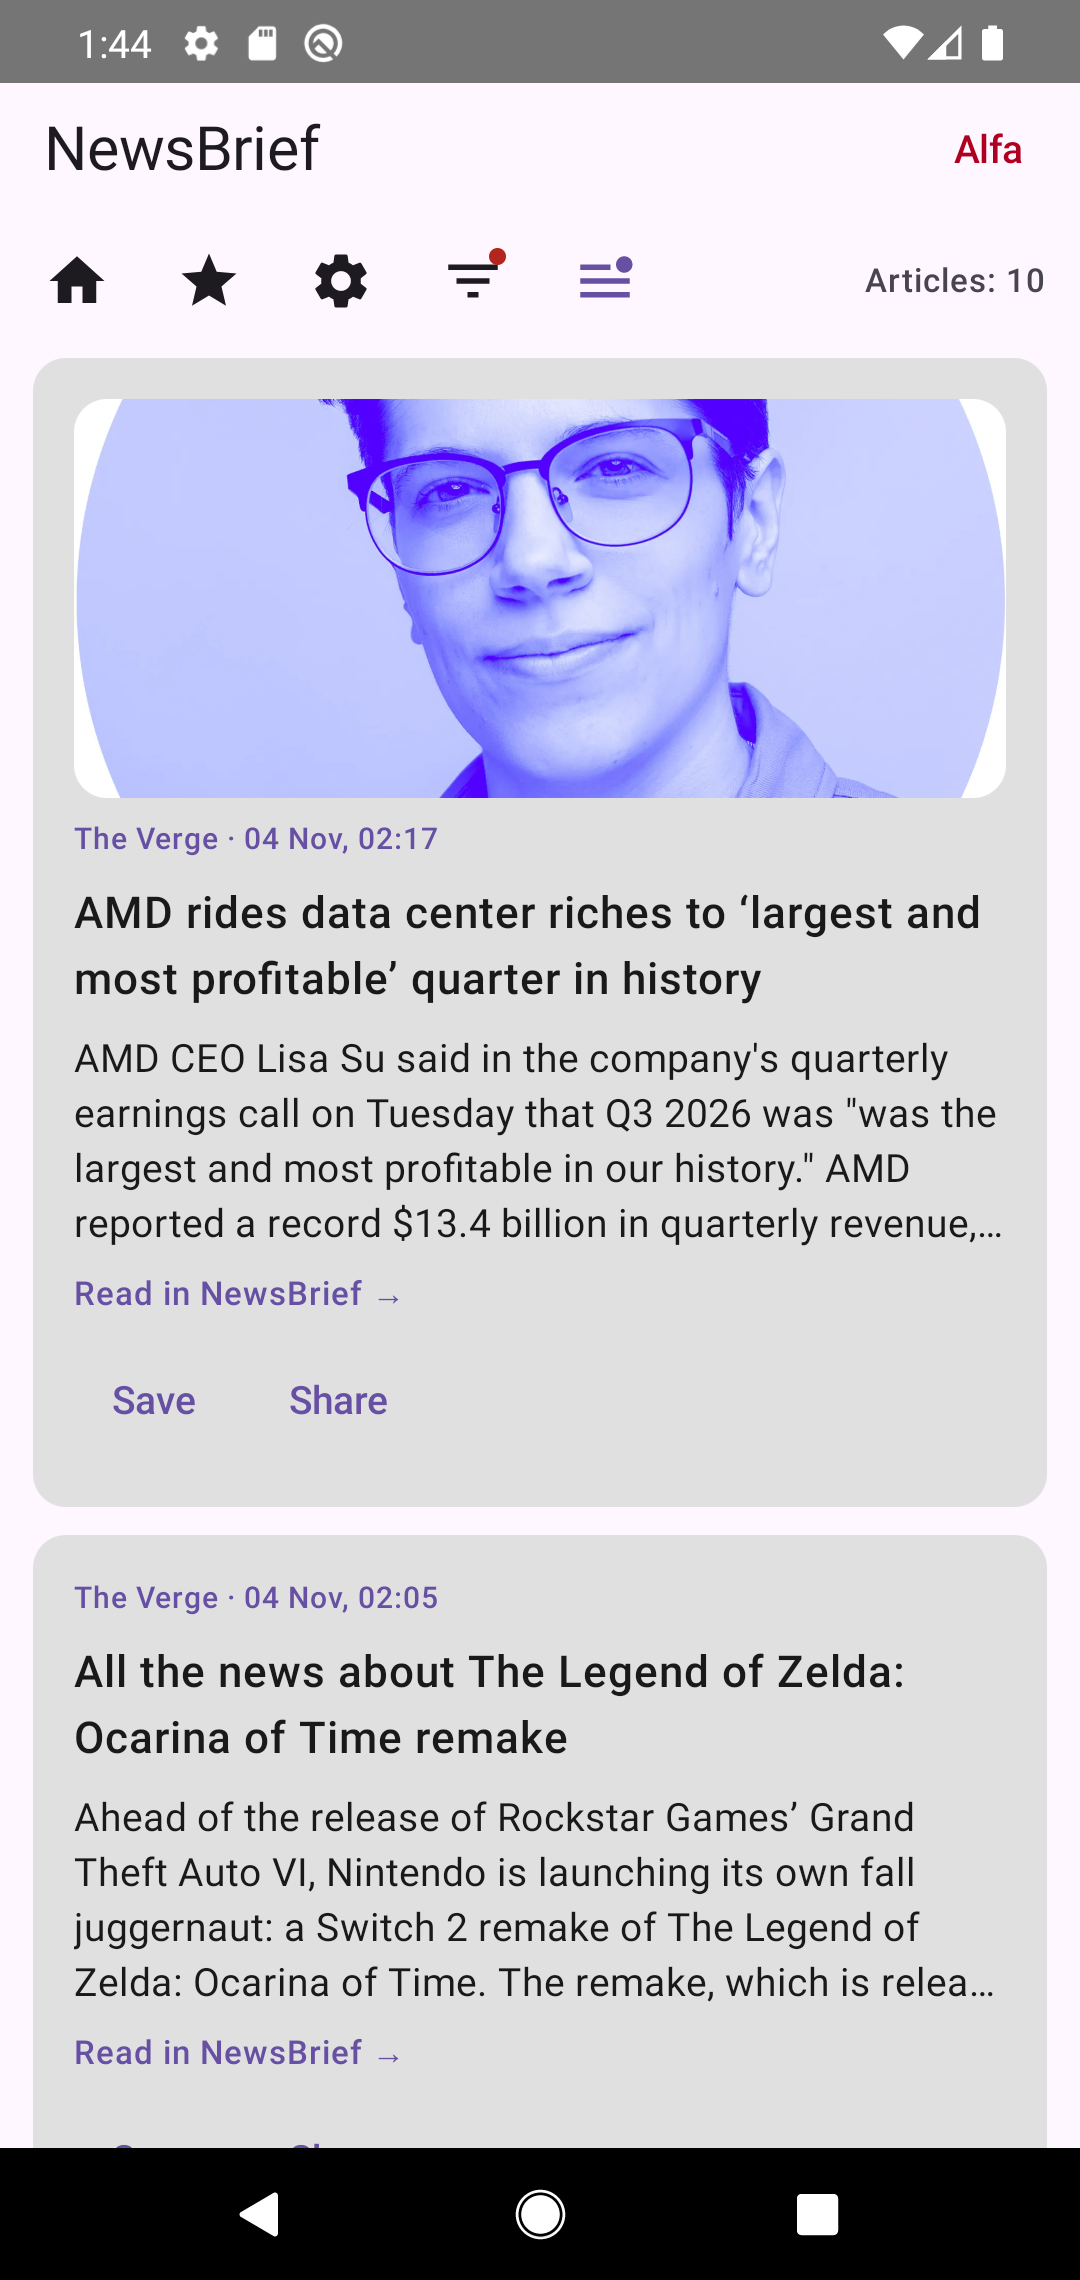
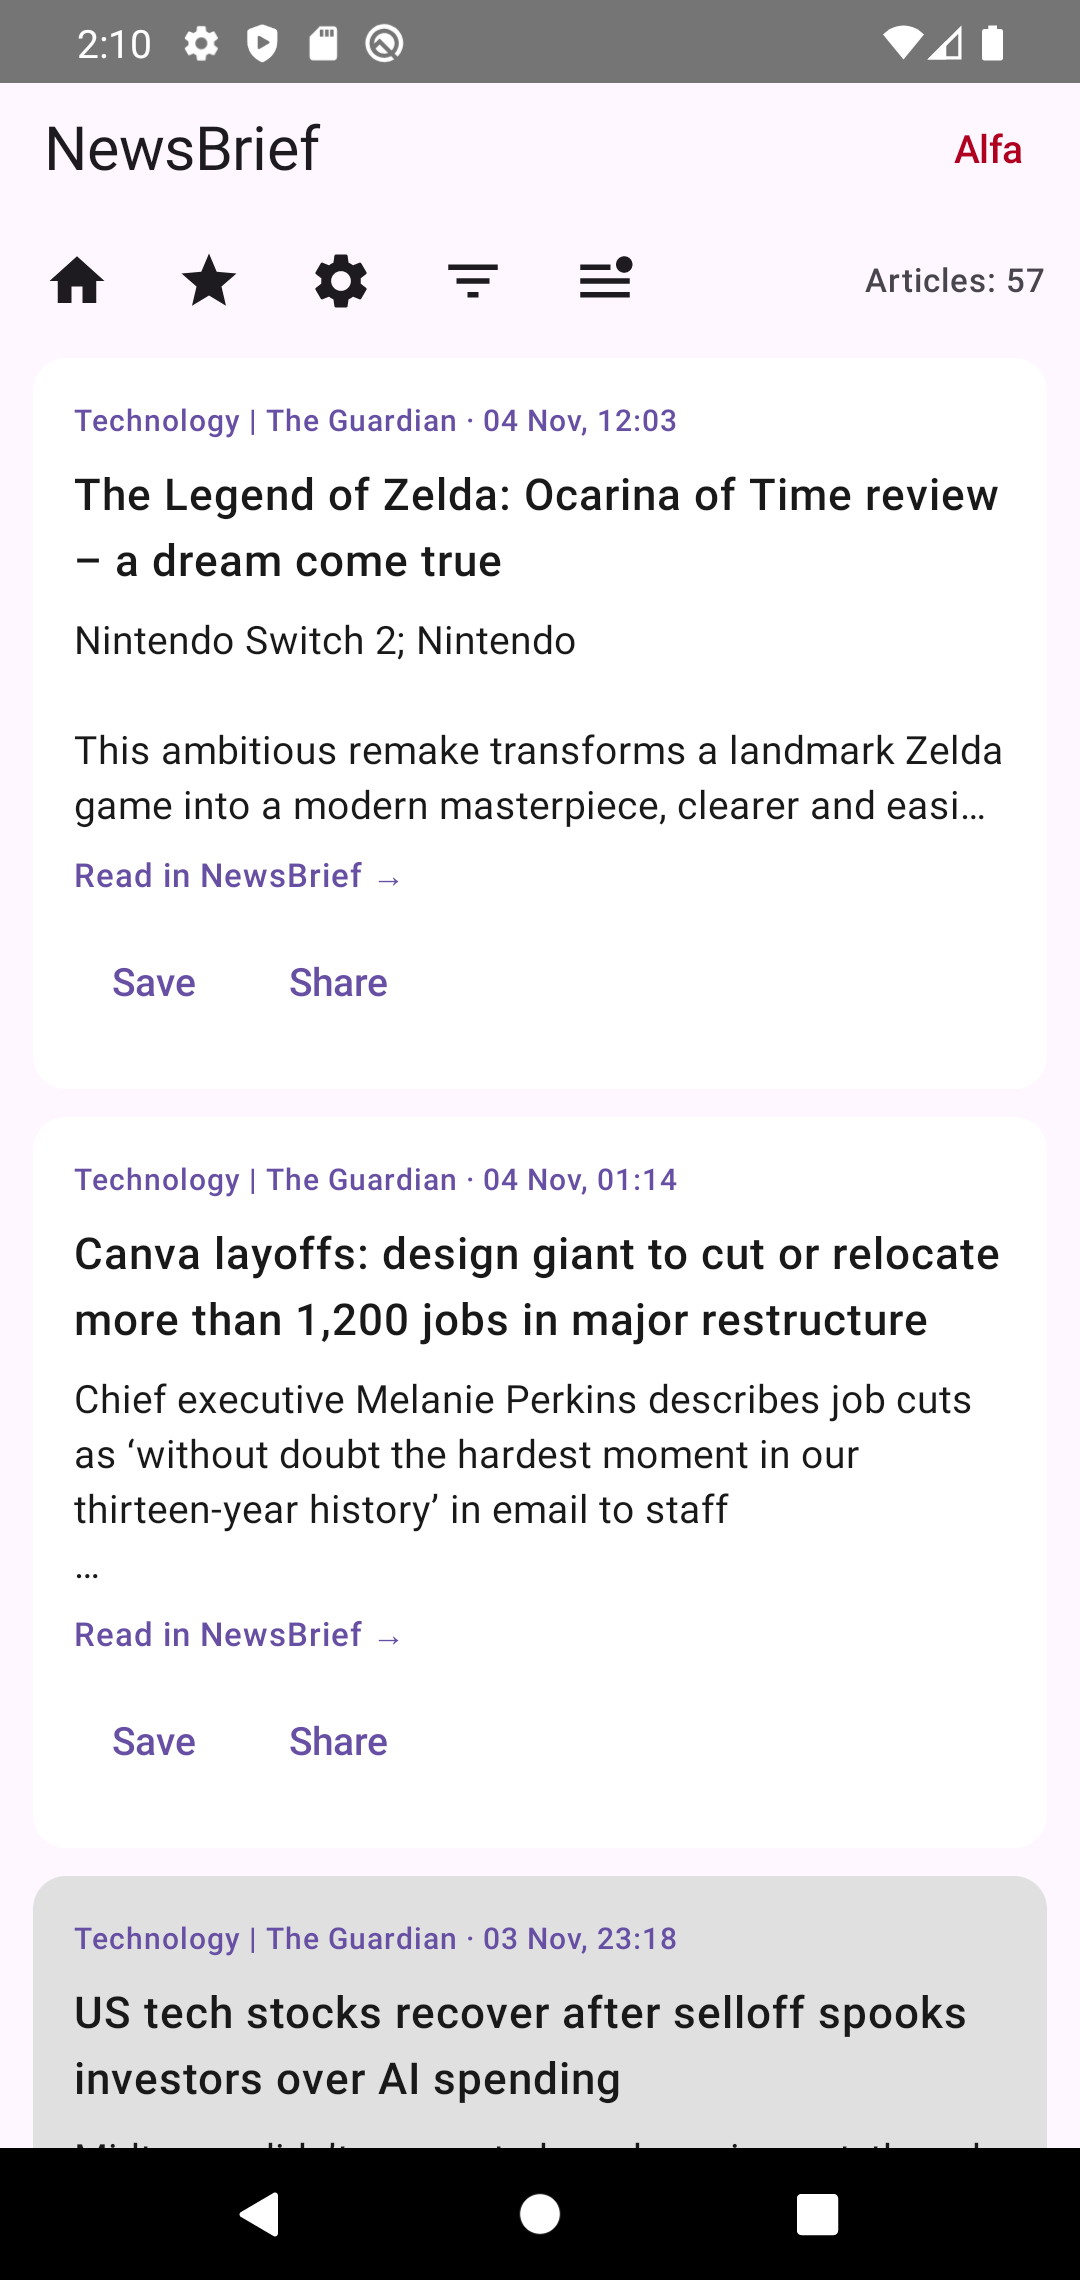
Show first-run setup and selected news sources

diff --git a/README.md b/README.md
@@ -6,9 +6,13 @@ NewsBrief is an open-source Android news reader that brings RSS/Atom feeds and p
 
 Captured from release `v0.0.56-release-alfa` on an Android 10 emulator. News content changes over time.
 
+| Welcome and setup | Choose a Telegram source | Configured sources |
+| --- | --- | --- |
+| <img src="docs/screenshots/current-welcome.png" alt="First-run welcome screen" width="220"> | <img src="docs/screenshots/current-setup-source.png" alt="Adding The Warsaw Telegram channel" width="220"> | <img src="docs/screenshots/current-sources.png" alt="Technology RSS feeds and The Warsaw Telegram source" width="220"> |
+
 | News feed | Source filter | Source catalog |
 | --- | --- | --- |
-| <img src="docs/screenshots/current-feed.png" alt="News feed with article cards and save and share actions" width="220"> | <img src="docs/screenshots/current-filter.png" alt="Feed filter with the technology category selected" width="220"> | <img src="docs/screenshots/current-catalog.png" alt="Searchable technology source catalog" width="220"> |
+| <img src="docs/screenshots/current-feed.png" alt="Technology news feed" width="220"> | <img src="docs/screenshots/current-filter.png" alt="Filter showing RSS and Telegram sources" width="220"> | <img src="docs/screenshots/current-catalog.png" alt="Searchable technology source catalog" width="220"> |
 
 | Native reader | Module settings |
 | --- | --- |
